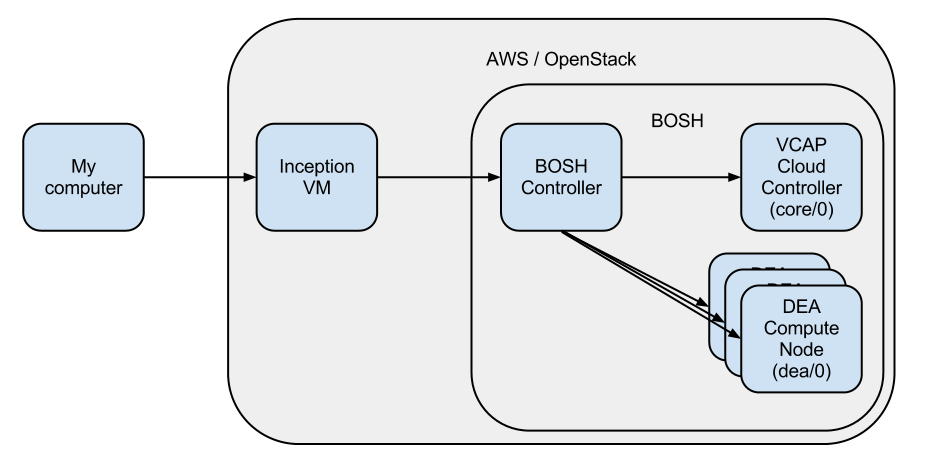
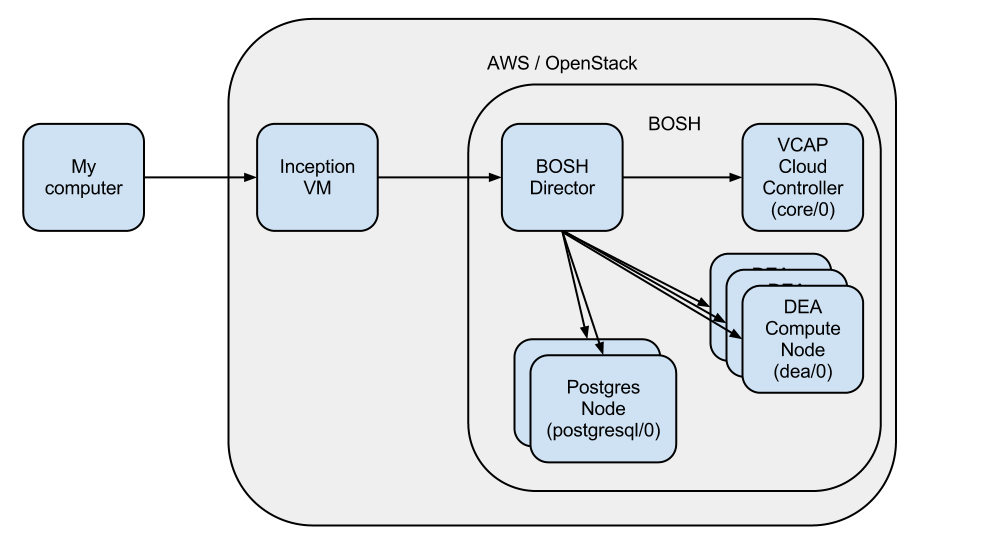
Some re-structuring and explanation of concepts as well as added scaling for Postgres

diff --git a/docs/concept.md b/docs/concept.md
@@ -13,7 +13,8 @@ There are several parts in action here.
 [CloudFoundry](http://cloudfoundry.org) is VMWares's Open Source PaaS solution. It is available as a public cloud at [http://cloudfoundry.com](http://cloudfoundry.com) or as something you can bring in-house.
 
 * __Cloud Controller__ is the main component in CloudFoundry and the server you point your vmc command to. It can be split up into separate VMs, but this bootstrap keeps it all on one node.
-* __DEA__ is the compute nodes. In the initial setup the Cloud Controller is also a DEA. But you can basically view it as VMs that will handle and serve your applications. 
+* __DEA__ is the compute nodes. In the initial setup the Cloud Controller is also a DEA. But you can basically view it as VMs that will handle and serve your applications.
+* __Service__ is the concept CloudFoundry uses to describe added functionality to your application like Postgres or MongoDB.
 
 
 ## BOSH
@@ -21,6 +22,8 @@ There are several parts in action here.
 
 * __Job__ is BOSH's concept of grouping functionality together. In the normal instance you can think of a Job as a composition of services that a virtual machine will have. So two virtual machines with the same Job attachet will be identical.
 * __Template__ is BOSH's concept for defining a service. CloudController is one such template, and dea is another one.
+* __Stemcell__ is BOSH's concept for a virtual machine image. For Amazon it equals and AMI. It is a template that is booted and becoms an instance of an virtual machine.
+* __Resource Pool__ is basically a collection of virtual machines, that you can reference/assign jobs to. The have the same stemcell and configuration (eg. AWS size).
 
 ## Inception VM
 Inception VM is a Virtual Machine used for bootstrapping BOSH.
@@ -44,7 +47,14 @@ Now if the above description was crystal clear, you'll know where the scaling ha
 
 ![BOSH-CF scaled deploy](BOSH-cf-scaled.png)
 
-You can also scale out the Cloud Controller. The way BOSH handles this is with separate pools, so increasing the pool for core will scale that part out. It is the responsibility of the separate application to handle clustering and communication between the nodes.
+In the case above we have three resource pools. They are called core, DEA and postgres. This is that standard way that the BOSH cf plugin does it. The following has been done here:
+
+* ```bosh cf change deas 3``` creates a pool with 3 virtual machines and assigns the DEA job to them. It also removes the DEA template from the core job.
+* ```bosh cf add service postgresql 2``` creates a pool with 2 virtual machines and assigns the postgresql job to them.
+
+With BOSH it is possible to allocate the postgres templates on the already existing DEA nodes and thus save costs on Amazon. It all comes down to what kind of scale you need, and also separation from load issues.
+
+It is the responsibility of the separate application to handle clustering and communication between the nodes.
 
 ## Implementation
 
